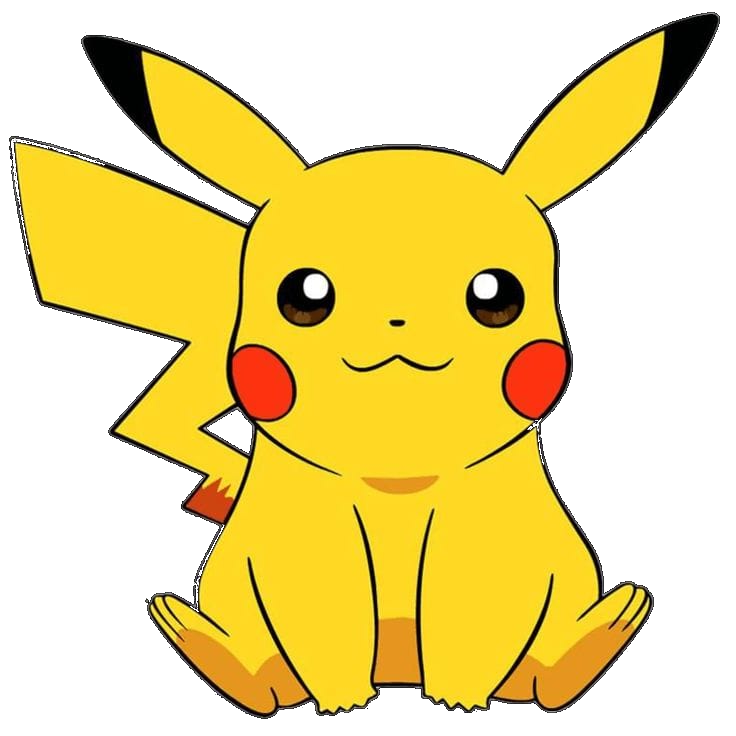
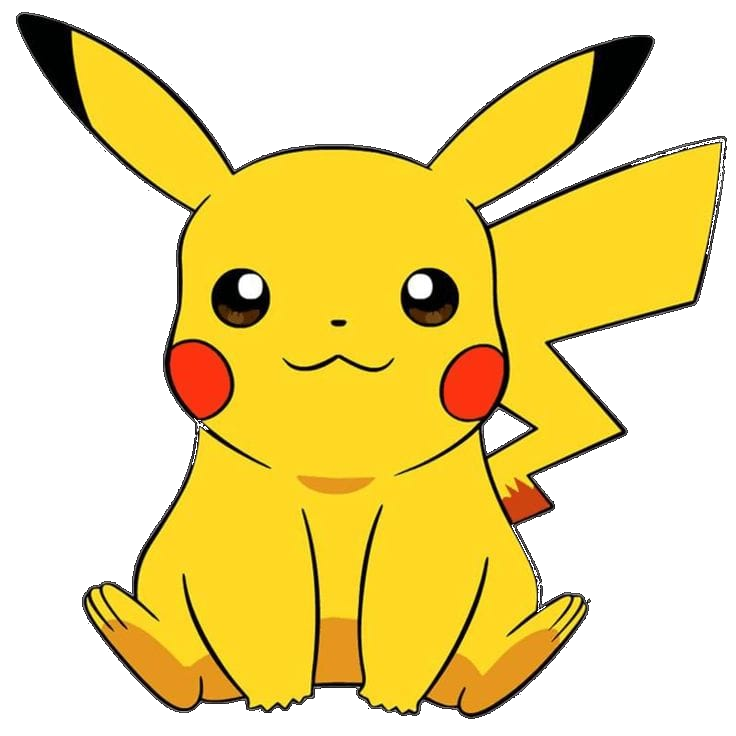
add pokeball effect

diff --git a/lib/main.dart b/lib/main.dart
@@ -25,13 +25,22 @@ void main() {
                 )),
           )),
           Positioned(
+            top: 310,
+            left: 30,
+            child: Opacity(
+              opacity: 0.1,
+              child: Image.asset('assets/pokeball.png',
+                  height: 140, width: 140, colorBlendMode: BlendMode.modulate),
+            ),
+          ),
+          Positioned(
               top: 280,
-              left: 10,
+              left: 40,
               child: Transform(
                 alignment: Alignment.center,
                 transform: Matrix4.rotationY(math.pi),
                 child: Image.network(
-                  'https://raw.githubusercontent.com/PokeAPI/sprites/master/sprites/pokemon/other/official-artwork/4.png',
+                  'https://raw.githubusercontent.com/PokeAPI/sprites/master/sprites/pokemon/other/official-artwork/7.png',
                   //Image.asset(
                   //  'assets/pikachu.png',
                   height: 200,
